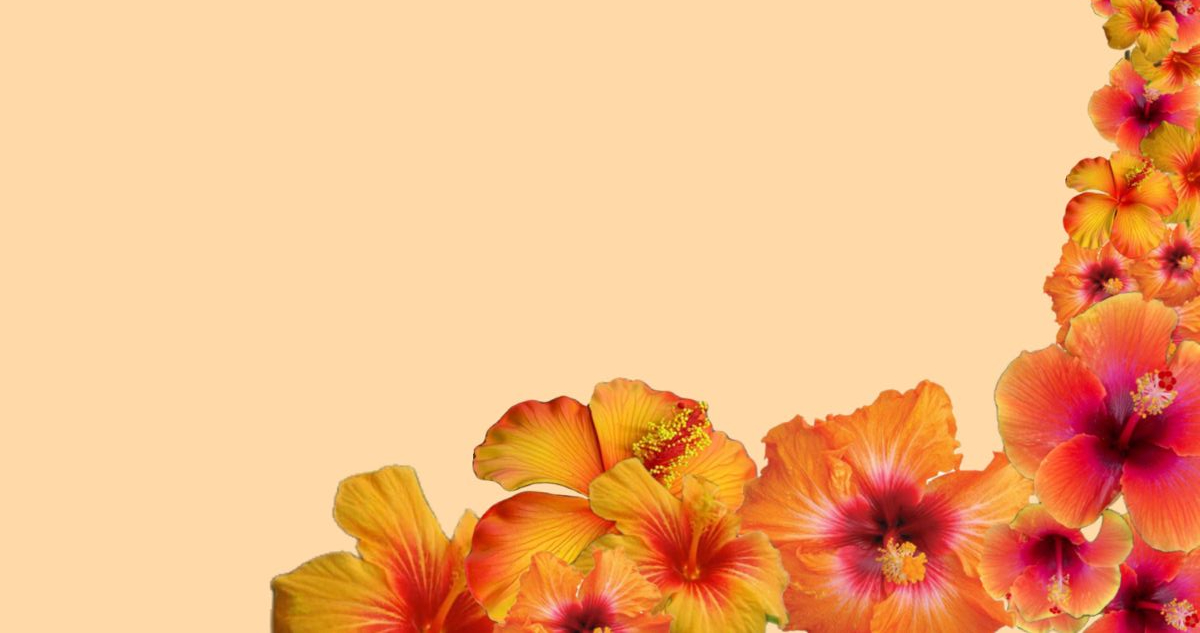
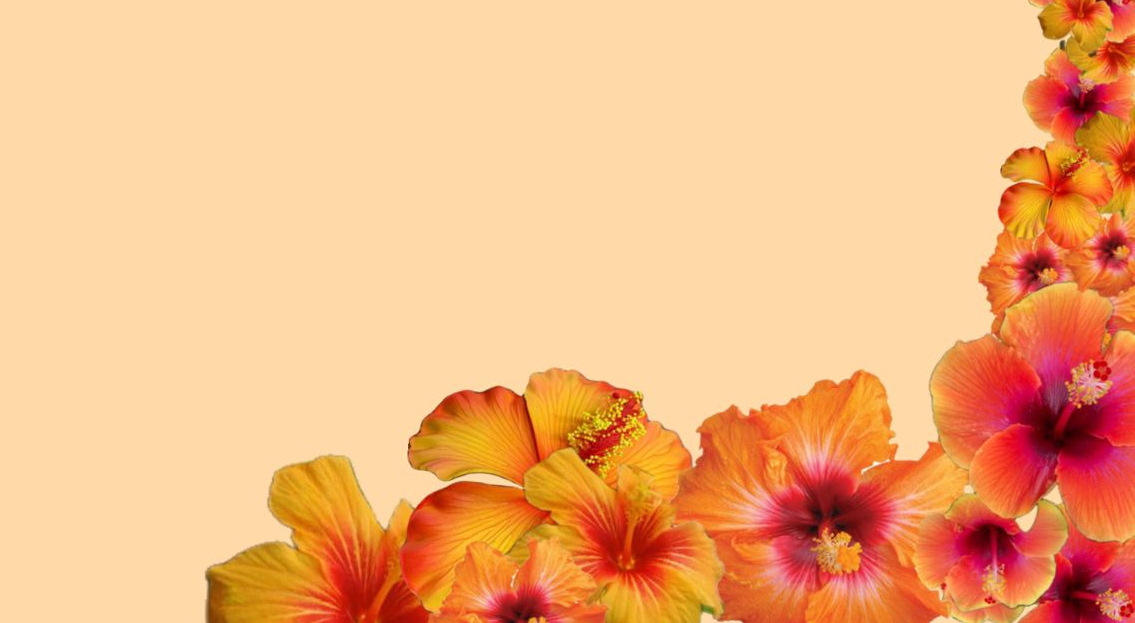
achtergrond

Changed region(s): [[0.1542, 0.0, 1.0, 1.0]]

diff --git a/opmaak.css b/opmaak.css
@@ -6,12 +6,7 @@ body{
 #body1 {
     background-image: url("bloemen2.jpeg");
     background-repeat: repeat-x;
-    max-width: 100%;
     background-size: cover;
-}
-
-#body1 {
-  image-orientation: flip;
 }
 
 ul { 
